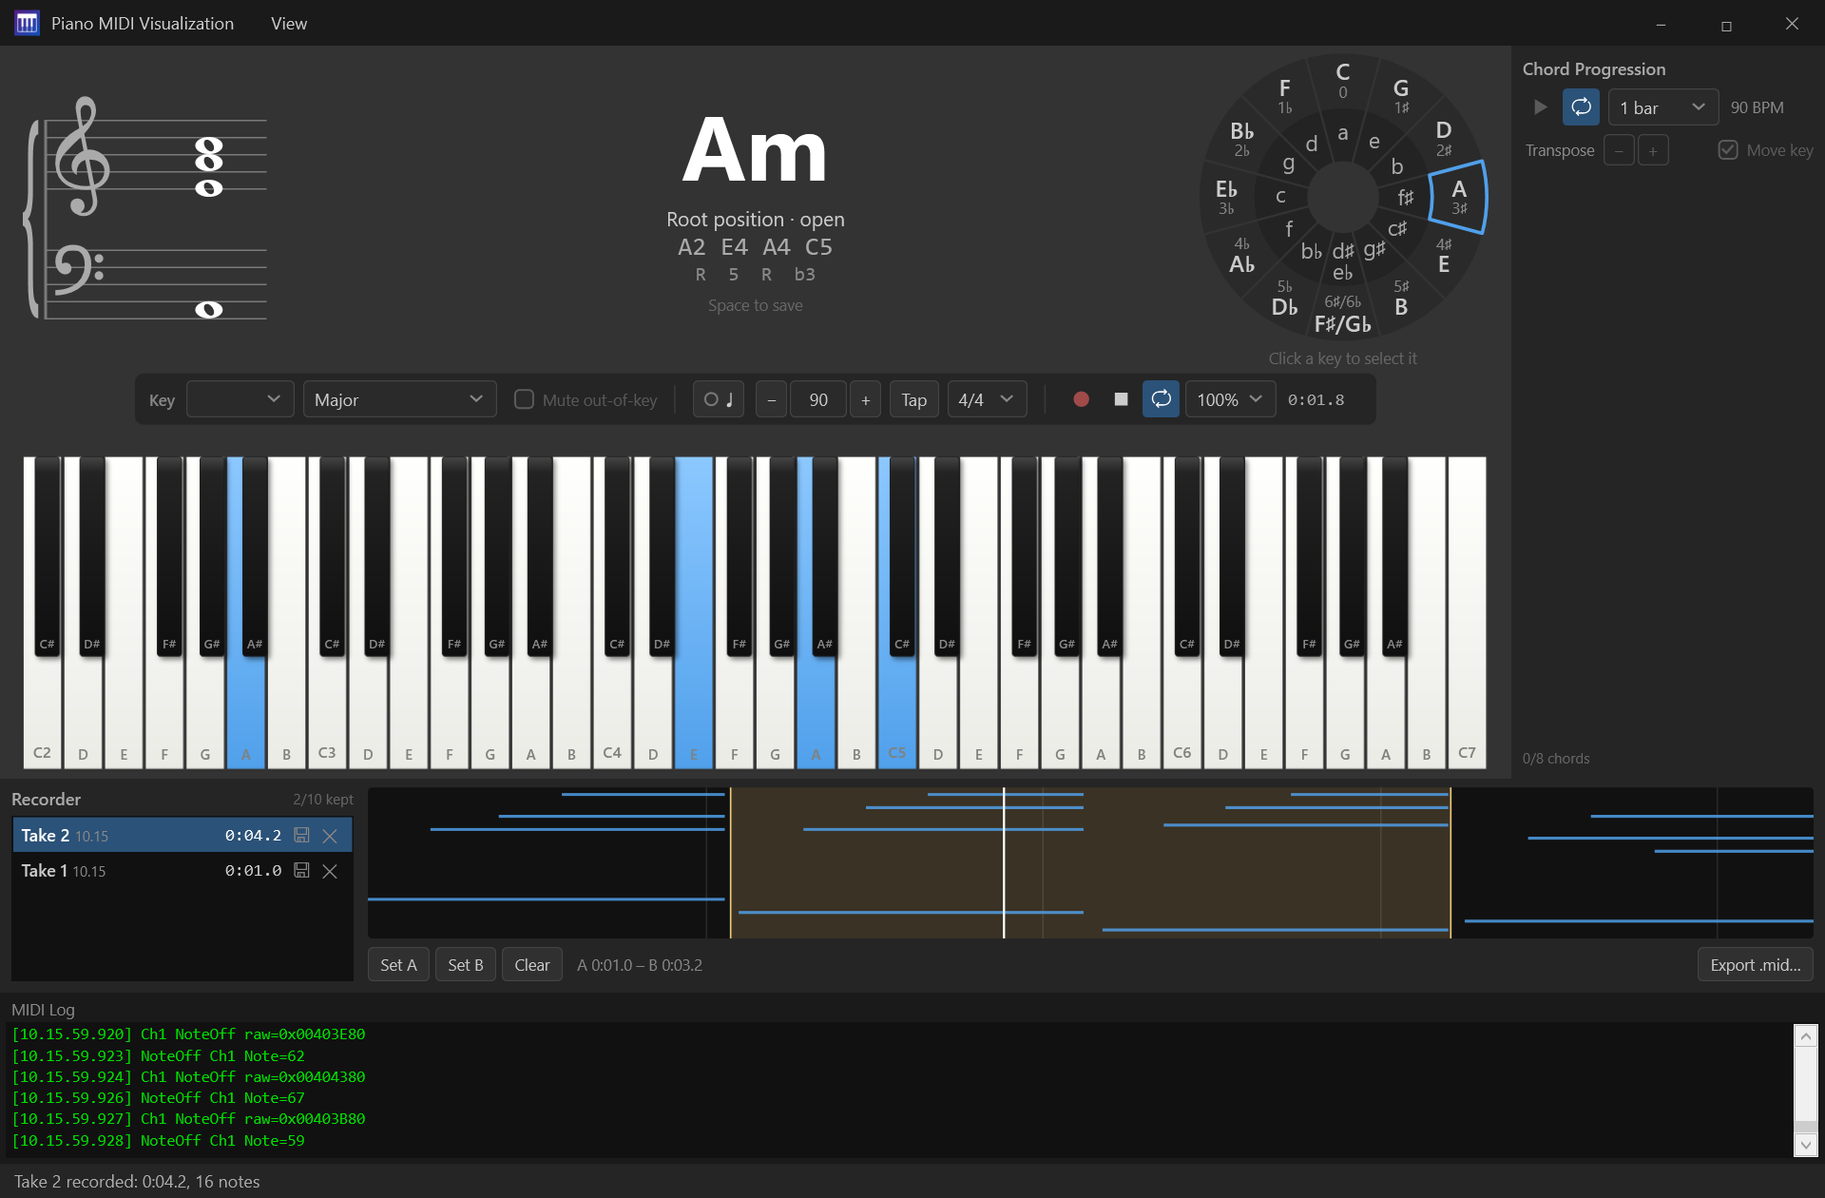
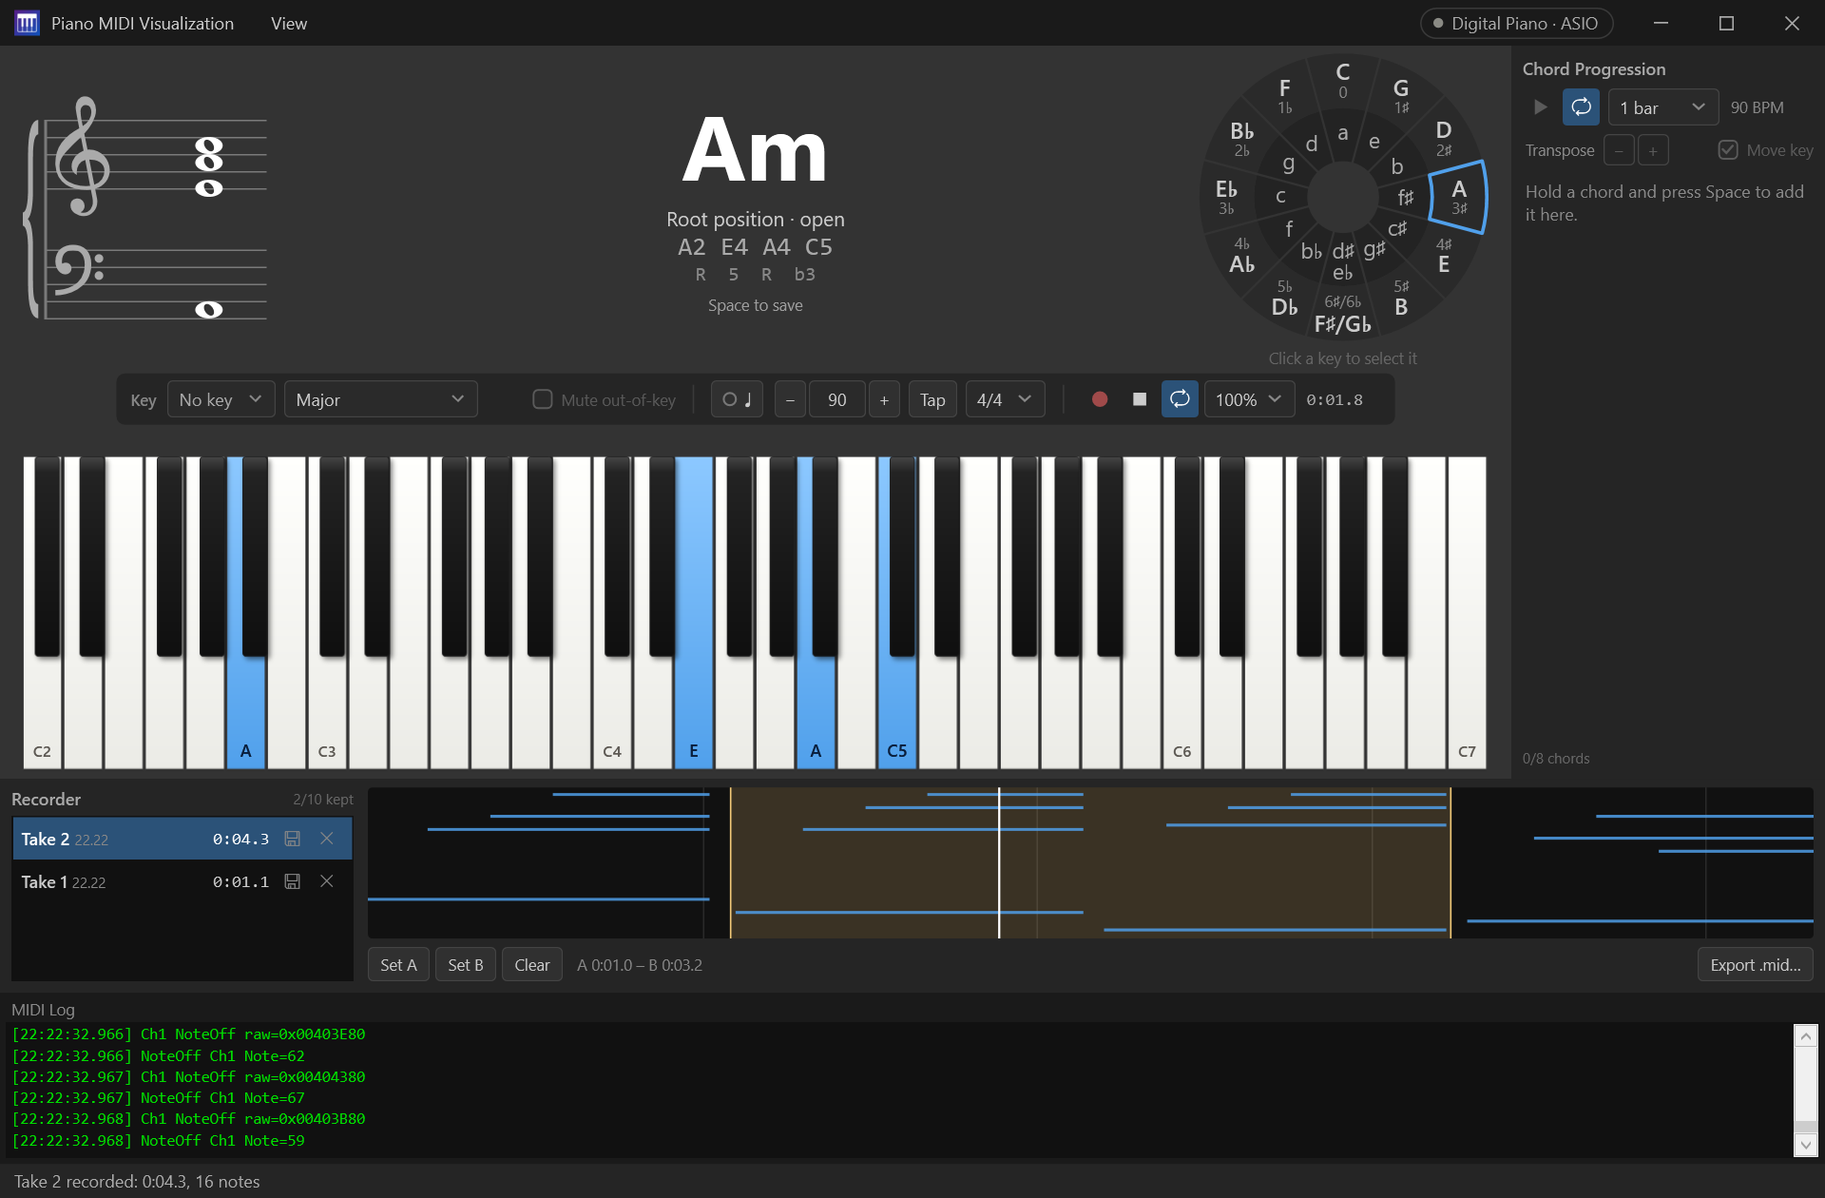
Refresh the README for piano controls, sustain, the chord latch and first run
Features catch up with the work since the last review: Piano controls (learn a
key, pad, button or pedal for eight actions), the sustain pedal, the two-second
chord latch that Space saves from, held-key labels and View > All Note Names,
the amber key colours, notes landing on the keys in song practice, the title
bar's status chip, and Esc cancelling Learn. Getting started leads with the
first-run checklist; the release notes use the new Settings labels.

Screenshots: a new first-run scene, and the settings scene now learns the soft
pedal and a channel-10 pad through the fake keyboard, which can play other
channels and move controllers. All scenes re-rendered.

The render caught a copy bug: a pad mapped as "C2 · ch 10" said "C2 won't sound
while it's mapped", though the keyboard's own C2 still plays. It now names the
channel too.

diff --git a/piano/.claude/skills/update-readme/screenshots/Fakes.cs b/piano/.claude/skills/update-readme/screenshots/Fakes.cs
@@ -21,23 +21,33 @@ internal sealed class FakeMidiInput : IMidiInputService
     public event EventHandler<NoteEventArgs>? NoteOn;
     public event EventHandler<NoteEventArgs>? NoteOff;
     public event EventHandler<RawMidiMessageEventArgs>? MessageReceived;
+    public event EventHandler<ControlChangeEventArgs>? ControlChange;
 
-    public void PressKey(int note, int velocity)
+    /// <param name="channel">0-based, like <see cref="NoteEventArgs.Channel"/>: 9 is a drum pad's channel 10.</param>
+    public void PressKey(int note, int velocity, int channel = 0)
     {
-        Raw("NoteOn", 0x90 | note << 8 | velocity << 16);
+        Raw("NoteOn", channel, 0x90 | channel | note << 8 | velocity << 16);
         // Middle C (60) is "C4", as the keyboard and the real log (MusicNaming.WithOctave) name it.
-        Log($"NoteOn Ch1 Note={note} ({NoteNames[note % 12]}{note / 12 - 1}) Vel={velocity}");
-        NoteOn?.Invoke(this, new NoteEventArgs { NoteNumber = note, Velocity = velocity, Channel = 0 });
+        Log($"NoteOn Ch{channel + 1} Note={note} ({NoteNames[note % 12]}{note / 12 - 1}) Vel={velocity}");
+        NoteOn?.Invoke(this, new NoteEventArgs { NoteNumber = note, Velocity = velocity, Channel = channel });
     }
 
-    public void ReleaseKey(int note)
+    public void ReleaseKey(int note, int channel = 0)
     {
-        Raw("NoteOff", 0x80 | note << 8 | 0x40 << 16);
-        Log($"NoteOff Ch1 Note={note}");
-        NoteOff?.Invoke(this, new NoteEventArgs { NoteNumber = note, Velocity = 0, Channel = 0 });
+        Raw("NoteOff", channel, 0x80 | channel | note << 8 | 0x40 << 16);
+        Log($"NoteOff Ch{channel + 1} Note={note}");
+        NoteOff?.Invoke(this, new NoteEventArgs { NoteNumber = note, Velocity = 0, Channel = channel });
     }
 
-    private void Raw(string command, int message) => Log($"Ch1 {command} raw=0x{message:X8}");
+    /// <summary>A pedal, button or knob: 127 is down or full, 0 up.</summary>
+    public void MoveControl(int controller, int value, int channel = 0)
+    {
+        Raw("ControlChange", channel, 0xB0 | channel | controller << 8 | value << 16);
+        Log($"CC Ch{channel + 1} Controller={controller} Value={value}");
+        ControlChange?.Invoke(this, new ControlChangeEventArgs { Channel = channel, Controller = controller, Value = value });
+    }
+
+    private void Raw(string command, int channel, int message) => Log($"Ch{channel + 1} {command} raw=0x{message:X8}");
 
     private void Log(string description) =>
         MessageReceived?.Invoke(this, new RawMidiMessageEventArgs { Description = description });

diff --git a/piano/.claude/skills/update-readme/screenshots/Scenes.cs b/piano/.claude/skills/update-readme/screenshots/Scenes.cs
@@ -1,4 +1,5 @@
 using System.IO;
+using PianoMidiVisualizationApp.Midi;
 using PianoMidiVisualizationApp.Services;
 using PianoMidiVisualizationApp.Services.SongPractice;
 
@@ -7,7 +8,8 @@ namespace ReadmeScreenshots;
 /// <param name="Name">The PNG's file name, without extension; README links use it.</param>
 /// <param name="Width">Window size in DIPs. Keep it near 1280 wide: GitHub shows README images
 /// at about 880px, so a much wider window makes the text unreadably small.</param>
-internal sealed record Scene(string Name, int Width, int Height, Action<Host> Setup);
+/// <param name="SetUp">False starts like a first launch: no piano sound chosen and audio off.</param>
+internal sealed record Scene(string Name, int Width, int Height, Action<Host> Setup, bool SetUp = true);
 
 /// <summary>
 /// Every README screenshot. Each starts from a fresh window with default settings (the
@@ -28,6 +30,7 @@ internal static class Scenes
         new("recorder", 1280, 840, Recorder),
         new("settings", 1280, 560, Settings),
         new("zen-mode", 1280, 520, ZenMode),
+        new("first-run", 1280, 600, _ => { }, SetUp: false),
     ];
 
     /// <summary>
@@ -128,11 +131,27 @@ internal static class Scenes
         }
     }
 
-    /// <summary>The settings overlay, connected and running, with a SoundFont picked (see <see cref="Host"/>).</summary>
+    /// <summary>
+    /// The settings overlay, connected and running, with a SoundFont picked (see <see cref="Host"/>),
+    /// and two piano controls learned the way a player would: the soft pedal saves the chord, and
+    /// a drum pad on channel 10 arms the recorder.
+    /// </summary>
     private static void Settings(Host host)
     {
         var vm = host.Vm;
         vm.IsSettingsOverlayVisible = true;
+
+        var controls = vm.PianoControls;
+        controls.LearnCommand.Execute(controls.Rows.Single(r => r.Action == PianoAction.SaveChord));
+        host.Midi.MoveControl(67, 127);   // the soft pedal, down
+        host.Midi.MoveControl(67, 0);
+        Host.PumpUntil(() => !controls.IsLearning, TimeSpan.FromSeconds(5), "the soft pedal to be learned");
+
+        controls.LearnCommand.Execute(controls.Rows.Single(r => r.Action == PianoAction.ToggleRecord));
+        host.Midi.PressKey(36, 100, channel: 9);   // a pad sending C2 (MIDI 36) on channel 10
+        host.Midi.ReleaseKey(36, channel: 9);
+        Host.PumpUntil(() => !controls.IsLearning, TimeSpan.FromSeconds(5), "the pad to be learned");
+
         host.Press(C3, G3, E4);
     }
 

diff --git a/piano/.claude/skills/update-readme/screenshots/Host.cs b/piano/.claude/skills/update-readme/screenshots/Host.cs
@@ -22,7 +22,11 @@ internal sealed class Host : IDisposable
     public MainViewModel Vm { get; }
     public MainWindow Window { get; }
 
-    public Host(int width, int height)
+    /// <param name="setUp">
+    /// False leaves the piano sound unchosen and audio off, as on a first launch, so the readout
+    /// shows the setup checklist and the title bar's chip is amber.
+    /// </param>
+    public Host(int width, int height, bool setUp = true)
     {
         Vm = new MainViewModel(Midi, new FakeAudioEngine(), Dispatcher.CurrentDispatcher);
         Vm.RefreshDevices();
@@ -35,8 +39,11 @@ internal sealed class Host : IDisposable
         // Set up as a player would be: a piano sound chosen and audio on, so the title bar's
         // status chip reads "Digital Piano · ASIO" and the empty readout isn't the first-run
         // setup checklist. The file never exists; the fake engine doesn't open it.
-        Vm.Settings.SoundFontPath = @"C:\SoundFonts\Salamander Grand Piano\SalamanderGrandPiano.sfz";
-        Vm.StartAudioCommand.Execute(null);
+        if (setUp)
+        {
+            Vm.Settings.SoundFontPath = @"C:\SoundFonts\Salamander Grand Piano\SalamanderGrandPiano.sfz";
+            Vm.StartAudioCommand.Execute(null);
+        }
 
         Window = new MainWindow
         {

diff --git a/piano/src/PianoMidiVisualizationApp/Midi/MidiTrigger.cs b/piano/src/PianoMidiVisualizationApp/Midi/MidiTrigger.cs
@@ -41,7 +41,8 @@ public readonly record struct MidiTrigger(MidiTriggerKind Kind, int Channel, int
     /// </summary>
     public string? SideEffect => Kind switch
     {
-        MidiTriggerKind.Note => $"{MusicNaming.WithOctave(Number)} won't sound while it's mapped.",
+        // DisplayName, channel and all: a pad's C2 on channel 10 takes nothing from the keyboard's C2.
+        MidiTriggerKind.Note => $"{DisplayName} won't sound while it's mapped.",
         MidiTriggerKind.ControlChange when Number == SustainPedal => "The pedal won't sustain while it's mapped.",
         _ => null
     };

diff --git a/piano/.claude/skills/update-readme/screenshots/Program.cs b/piano/.claude/skills/update-readme/screenshots/Program.cs
@@ -53,7 +53,7 @@ internal static class Program
             var clock = Stopwatch.StartNew();
             try
             {
-                using var host = new Host(scene.Width, scene.Height);
+                using var host = new Host(scene.Width, scene.Height, scene.SetUp);
                 scene.Setup(host);
 
                 string path = Path.Combine(outDir, scene.Name + ".png");

diff --git a/piano/README.md b/piano/README.md
@@ -4,7 +4,8 @@ A Windows desktop app for practising piano with a MIDI keyboard. It plays your k
 any SoundFont (`.sf2`) or SFZ piano with low-latency audio. As you play, it shows the keys you're
 holding, the chord's name and Roman numeral, the notes on a grand staff and where the chord sits
 on the circle of fifths. You can also practise MIDI songs with falling notes, record takes, and
-build and play back chord progressions.
+build and play back chord progressions, and teach the pedals and pads on your keyboard to run
+the app so your hands can stay on the keys.
 
 ![The main window in C major. A G7 chord over B is held; the readout names it G7/B, V65, first inversion, drop 2 voicing. The grand staff, circle of fifths and chord strip follow it, and the sidebar holds a saved C–Am–F–G7 progression with next-chord suggestions.](docs/screenshots/main-window.png)
 
@@ -16,8 +17,11 @@ suggests where the saved progression could go next.*
 
 ### Hear and see what you play
 
-- **Any MIDI keyboard**: USB or through a MIDI interface. Held keys light up on a 61-key
-  keyboard (C2–C7) that scales with the window.
+- **Any MIDI keyboard**: USB or through a MIDI interface. Held keys light up blue on a 61-key
+  keyboard (C2–C7) that scales with the window, each labelled with its note spelled for the key
+  (Bb in F, not A#). The other keys label only the Cs; **View → All Note Names** labels every key.
+- **Sustain pedal**: holds the sound in both SoundFont and SFZ pianos. A key the pedal is holding
+  stays lit in a paler blue and still counts toward the chord name.
 - **SoundFont and SFZ pianos**: `.sf2` files play through the MeltySynth synthesizer. `.sfz`
   instruments such as [Salamander Grand Piano](https://sfzinstruments.github.io/pianos/salamander)
   play through a built-in sample player with velocity layers.
@@ -30,9 +34,10 @@ suggests where the saved progression could go next.*
   it are the inversion, the voicing (close, open, shell or drop 2), each note, and its interval
   above the root.
 - **Keys and scales**: pick a key centre and one of 12 scales: major, natural, harmonic and
-  melodic minor, the five other modes, major and minor pentatonic, and blues. In-key notes
-  are tinted on the keyboard, the tonic stands out, and note names switch between sharps and
-  flats to suit the key.
+  melodic minor, the five other modes, major and minor pentatonic, and blues. The keyboard shows
+  the key in amber: a wash on in-key keys, the tonic in full, and a small mark on in-key black
+  keys and on in-key keys you hold, so it doesn't rest on colour alone. Note names switch between sharps
+  and flats to suit the key.
 - **Mute out-of-key**: out-of-key notes go silent but still light up and still count toward the
   chord name, so you can hear the scale and see your mistakes.
 - **Roman numerals**: the held chord's function in the key, with figured-bass inversions (V65,
@@ -46,8 +51,10 @@ suggests where the saved progression could go next.*
 
 ### Build chord progressions
 
-- Press **Space** to save the chord you're holding to the **Chord Progression** sidebar, up to
-  eight chords, each with its numeral and notes.
+- Press **Space** to save the chord to the **Chord Progression** sidebar, up to eight chords,
+  each with its numeral and notes. You don't have to keep holding it: after you let go, the
+  readout keeps the chord for two seconds, fading, and Space still saves it. That way a
+  two-handed chord can be saved too.
 - **Play it back** at the metronome's tempo, looped if you like, giving each chord one bar or
   one to eight beats (**Ctrl+P**).
 - **Transpose** the whole progression by semitones. Tick **Move key** and the key moves with
@@ -56,12 +63,26 @@ suggests where the saved progression could go next.*
   vi, ii to V, and so on), each voiced to lead smoothly from it. Hover a suggestion to see it on
   the keyboard, and click it to add it.
 
+### Play from the piano
+
+![Settings, with Piano controls below the keyboard and sound settings. The soft pedal is learned for Save chord and a pad sending C2 on channel 10 for Record; the other actions are not set.](docs/screenshots/settings.png)
+
+- **Piano controls**, in **View → Settings…**: teach a key, pad, button or pedal on your
+  keyboard to save the chord, play the progression, record, play the latest take, turn the
+  metronome on or off, tap the tempo, or play and restart a song. Click **Learn** next to the
+  action, then press the control.
+- A key you map stops playing its note. **Clear** gives it back. Mappings are saved with your
+  other settings.
+- Each time a control fires, a short note over the stage says what it did, e.g. "Recording
+  armed · starts at your first note".
+
 ### Practise songs with falling notes
 
-![Song practice with Ode to Joy in "Wait for me" mode. Right-hand notes fall in green and left-hand chords in blue toward the keyboard. The song is paused on the next note, C4, which is outlined on the keyboard, with a score of 24 correct and 1 wrong.](docs/screenshots/song-practice.png)
+![Song practice with Ode to Joy in "Wait for me" mode. Right-hand notes fall in teal and left-hand chords in violet, straight onto the keyboard. The song is paused on the next note, C4, which is outlined on the keyboard, with a score of 24 correct, 1 wrong and 0 missed.](docs/screenshots/song-practice.png)
 
-- **Open any MIDI file** (**Ctrl+O**), and its notes fall toward the keys they belong to. A
-  two-handed piano track is split into right and left hand at middle C, each in its own colour.
+- **Open any MIDI file** (**Ctrl+O**), and its notes fall straight onto the keys they belong
+  to. A two-handed piano track is split into right and left hand at middle C, each in its own
+  colour.
 - **Tracks**: decide who plays each part: **You play**, **Auto-play** (the app plays it as
   accompaniment) or **Mute**.
 - **Wait for me**: the song stops at each of your chords until you play it, with the keys to
@@ -75,7 +96,8 @@ suggests where the saved progression could go next.*
 ![The recorder panel with two takes. Take 2 plays back in an A–B loop, and its notes are drawn on a timeline with the loop region shaded. The keyboard and readout show the A minor chord being played back, and the MIDI log below lists raw note messages.](docs/screenshots/recorder.png)
 
 - Press **Ctrl+R** to arm the recorder. Recording starts at your first note, so there's no
-  silence to trim. The last ten takes are kept.
+  silence to trim. The last ten takes are kept. A note held by the sustain pedal is recorded for
+  as long as it sounds.
 - **Play back** at 50%, 75% or 100% speed (**Ctrl+Shift+R**), looping the whole take or just
   an **A–B** region. Drag across the timeline to set the region, or click it to jump there.
 - **Export** any take as a `.mid` file.
@@ -93,6 +115,9 @@ suggests where the saved progression could go next.*
 - Every panel can be shown or hidden from the **View** menu or its shortcut. **Zen mode**
   (**F11**) hides everything but the chord readout and the keyboard, and F11 again brings your
   layout back.
+- **Status at a glance**: the title bar shows your keyboard and audio output, e.g. "Digital
+  Piano · ASIO". It turns amber when either isn't ready, its tooltip says why, and clicking it
+  opens Settings.
 - **MIDI log**: a scrolling list of every raw MIDI message, handy when a keyboard misbehaves.
 - **AI Music Assistant** (optional): a chat panel for music theory and practice questions. It
   knows the chord you're holding, the selected key and your saved progression. It uses Google
@@ -107,7 +132,7 @@ suggests where the saved progression could go next.*
 | Shortcut | Action |
 |---|---|
 | **Space** | Save the held chord to the progression |
-| **Ctrl+,** | Settings (**Esc** closes them) |
+| **Ctrl+,** | Settings (**Esc** closes them, or cancels **Learn**) |
 | **F11** | Zen mode |
 | **Ctrl+M** | Metronome on/off |
 | **Ctrl+R** | Record / stop recording |
@@ -138,15 +163,21 @@ Get the latest `win-x64.zip` from [Releases](https://github.com/FrankDrebin893/P
 
 ## Getting started
 
-![Settings across the top of the window: the keyboard with Connect/Disconnect, activity light and refresh; the ASIO or WASAPI output and its device; the piano sound file with Choose…, Start audio and Stop; the volume and click sliders; and the Gemini key field. Below them, Piano controls for mapping pads and buttons.](docs/screenshots/settings.png)
+![The first launch. The readout shows a setup checklist: Keyboard connected (Digital Piano, ticked), Choose a piano sound (the next step, highlighted) and Start audio. The title bar reads "Digital Piano · No sound" in amber.](docs/screenshots/first-run.png)
 
-1. Open **View → Settings…** (**Ctrl+,**).
-2. Select your MIDI keyboard from the **Keyboard** dropdown and click **Connect**.
-3. Choose **ASIO** or **WASAPI** under **Output**, and select your audio device.
-4. Click **Choose…** next to **Piano sound** to pick a SoundFont or SFZ file.
-5. Click **Start audio**.
-6. Play. You'll hear sound and see the keys light up. Pick a **Key** in the toolbar to turn on
-   the Roman numerals, chord strip and key tinting.
+The first time you start the app, the empty readout is a setup checklist: **Connect your
+keyboard**, **Choose a piano sound** and **Start audio**. Click a step to do it. Choosing a
+sound starts audio as well. If a step fails, it says why in amber.
+
+Everything is also in **View → Settings…** (**Ctrl+,**):
+
+1. Select your MIDI keyboard from the **Keyboard** dropdown and click **Connect**.
+2. Choose **ASIO** or **WASAPI** under **Output**, and select your audio device.
+3. Click **Choose…** next to **Piano sound** to pick a SoundFont or SFZ file.
+4. Click **Start audio**.
+
+Then play. You'll hear sound and see the keys light up. Pick a **Key** in the toolbar to turn on
+the Roman numerals, chord strip and key tinting.
 
 The dot next to **Connect** turns green once the keyboard is connected and flashes when MIDI
 data arrives. **Volume** sets the master volume and **Click** the metronome. To use the AI

diff --git a/piano/.github/release-notes.md b/piano/.github/release-notes.md
@@ -2,6 +2,6 @@
 
 Download the `win-x64.zip` below, unzip it, and run `PianoMidiVisualizationApp.exe`. There is no installer, and .NET doesn't need to be installed. Requires 64-bit Windows 10 or 11.
 
-- **No piano sound is included.** Download any `.sf2` or `.sfz` piano, then open **View → Settings…** and pick it with the **...** button next to **SF2**. Free options: [GeneralUser GS](https://schristiancollins.com/generaluser.php) or [Salamander Grand Piano](https://sfzinstruments.github.io/pianos/salamander).
+- **No piano sound is included.** Download any `.sf2` or `.sfz` piano. On first launch the setup checklist asks for it (**Choose a piano sound**), or pick it any time in **View → Settings…** with **Choose…** next to **Piano sound**. Free options: [GeneralUser GS](https://schristiancollins.com/generaluser.php) or [Salamander Grand Piano](https://sfzinstruments.github.io/pianos/salamander).
 - **Windows may say "Windows protected your PC"**, because the app isn't code-signed yet. Click **More info**, then **Run anyway**.
 

diff --git a/piano/.claude/skills/update-readme/SKILL.md b/piano/.claude/skills/update-readme/SKILL.md
@@ -70,7 +70,10 @@ off-screen, and sets up only what it shows:
 - A new headline feature earns a scene. A small one can usually be staged inside the
   `main-window` hero shot instead.
 
-Current scenes: `main-window` (hero), `song-practice`, `recorder`, `settings`, `zen-mode`.
+Current scenes: `main-window` (hero), `song-practice`, `recorder`, `settings` (with two
+learned piano controls), `zen-mode`, `first-run` (the setup checklist; `SetUp: false` skips
+the sound and audio the other scenes start with). `FakeMidiInput` can also play pads on other
+channels and move controllers (`MoveControl`), e.g. to learn a pedal.
 
 ## 3. Render
 
